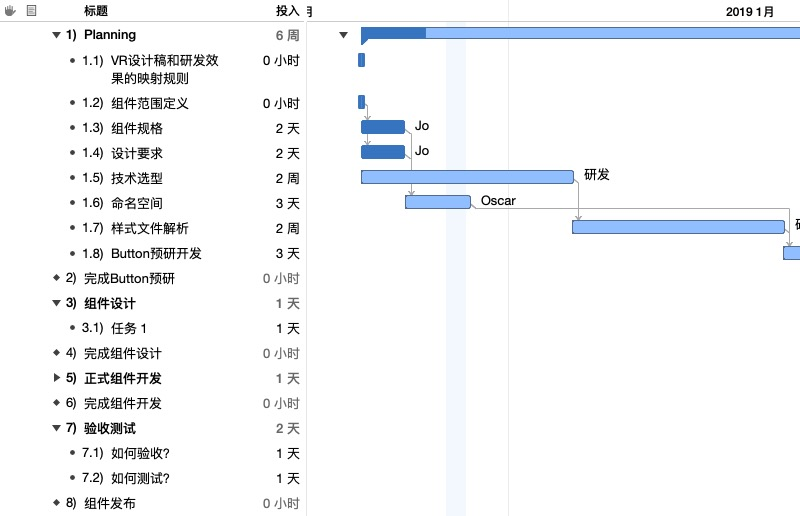
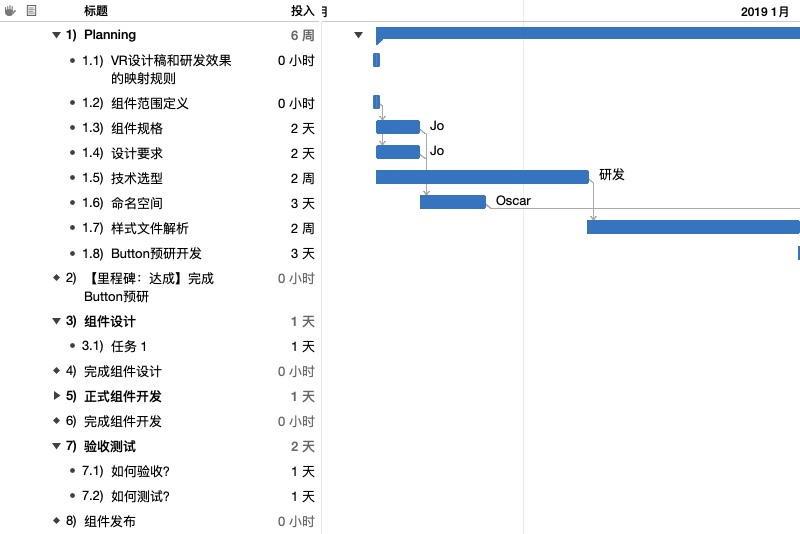
update

Changed region(s): [[0.0, 0.0, 1.0, 0.9922], [0.4375, 0.186, 1.0, 0.5271], [0.3125, 0.155, 0.4062, 0.9922]]

diff --git a/PUIFramework/task.html b/PUIFramework/task.html
@@ -67,7 +67,7 @@
 <td>2018/12/21 上午8:00</td>
 <td>2019/1/22 下午5:00</td>
 <td>4 周 3 天</td>
-<td>13%</td>
+<td>100%</td>
 <td></td>
 <td class="total"></td>
 <td></td>
@@ -152,7 +152,7 @@
 <td>2018/12/21 上午8:00</td>
 <td>2019/1/3 下午5:00</td>
 <td>2 周</td>
-<td>0%</td>
+<td>100%</td>
 <td></td>
 <td class="total"></td>
 <td>研发</td>
@@ -169,7 +169,7 @@
 <td>2018/12/25 上午9:00</td>
 <td>2018/12/28 上午9:00</td>
 <td>3 天</td>
-<td>0%</td>
+<td>100%</td>
 <td>1.3, 1.4</td>
 <td class="total"></td>
 <td>Oscar</td>
@@ -186,7 +186,7 @@
 <td>2019/1/4 上午8:00</td>
 <td>2019/1/17 下午5:00</td>
 <td>2 周</td>
-<td>0%</td>
+<td>100%</td>
 <td>1.5, 1.6</td>
 <td class="total"></td>
 <td>研发</td>
@@ -203,7 +203,7 @@
 <td>2019/1/18 上午8:00</td>
 <td>2019/1/22 下午5:00</td>
 <td>3 天</td>
-<td>0%</td>
+<td>100%</td>
 <td>1.6, 1.7</td>
 <td class="total"></td>
 <td>研发</td>
@@ -216,11 +216,11 @@
             </tr>
 
             <tr class="taskTypeMilestone">
-<td style="padding-left: 18px;" class="wrap">2) 完成Button预研</td>
+<td style="padding-left: 18px;" class="wrap">2) 【里程碑：达成】完成Button预研</td>
 <td>2019/1/23 下午3:00</td>
 <td>2019/1/23 下午3:00</td>
 <td></td>
-<td>0%</td>
+<td>100%</td>
 <td>1, 1.8</td>
 <td class="total"></td>
 <td></td>
@@ -406,6 +406,6 @@
         </div><!-- end table wrap -->
 	</div>
     </div><!-- end contentwrap -->
-	 <p class="exported">输出日期 2018/12/27</p>
+	 <p class="exported">输出日期 2019/1/28</p>
 </body>
 </html>

diff --git a/PUIFramework/resource.html b/PUIFramework/resource.html
@@ -158,7 +158,7 @@
 <td>2018/12/21 上午8:00</td>
 <td>2019/1/22 下午5:00</td>
 <td></td>
-<td>0%</td>
+<td>100%</td>
 <td></td>
             </tr>
 
@@ -167,7 +167,7 @@
 <td>2018/12/21 上午8:00</td>
 <td>2019/1/3 下午5:00</td>
 <td>2 周</td>
-<td>0%</td>
+<td>100%</td>
 <td></td>
             </tr>
 
@@ -176,7 +176,7 @@
 <td>2019/1/4 上午8:00</td>
 <td>2019/1/17 下午5:00</td>
 <td>2 周</td>
-<td>0%</td>
+<td>100%</td>
 <td></td>
             </tr>
 
@@ -185,7 +185,7 @@
 <td>2019/1/18 上午8:00</td>
 <td>2019/1/22 下午5:00</td>
 <td>3 天</td>
-<td>0%</td>
+<td>100%</td>
 <td></td>
             </tr>
  
@@ -203,7 +203,7 @@
 <td>2018/12/25 上午9:00</td>
 <td>2018/12/28 上午9:00</td>
 <td>3 天</td>
-<td>0%</td>
+<td>100%</td>
 <td></td>
             </tr>
 
@@ -212,7 +212,7 @@
 <td>2018/12/25 上午9:00</td>
 <td>2018/12/28 上午9:00</td>
 <td>3 天</td>
-<td>0%</td>
+<td>100%</td>
 <td></td>
             </tr>
  
@@ -257,6 +257,6 @@
         </div>
     </div><!-- end contentwrap -->
 
-<p class="exported">输出日期 2018/12/27</p>
+<p class="exported">输出日期 2019/1/28</p>
 </body>
 </html>

diff --git a/PUIFramework/index.html b/PUIFramework/index.html
@@ -32,8 +32,8 @@
 			<p class="number"><span class="data-missing">无</span></p>
 		</div>
 		<div id="completed" class="box">
-			<h2><span class="number">12%</span>已完成</h2>
-			<div id="bar"><div id="fill" style="width:12%;"></div></div>
+			<h2><span class="number">88%</span>已完成</h2>
+			<div id="bar"><div id="fill" style="width:88%;"></div></div>
 			<p><span class="label">开始：</span>2018/12/21 上午8:00</p>
 			<p><span class="label">结束日期：</span>2019/2/6 上午11:00</p>
 			<p><span class="label">差异：</span><span class="data-missing">无</span></p>
@@ -141,7 +141,7 @@
 <td>2018/12/21 上午8:00</td>
 <td>2019/1/22 下午5:00</td>
 <td></td>
-<td>0%</td>
+<td>100%</td>
 <td></td>
             </tr>
 
@@ -159,7 +159,7 @@
 <td>2018/12/25 上午9:00</td>
 <td>2018/12/28 上午9:00</td>
 <td>3 天</td>
-<td>0%</td>
+<td>100%</td>
 <td></td>
             </tr>
 
@@ -247,6 +247,6 @@
        
             </div><!-- end content-->
 	</div><!-- end contentwrap -->
-	 <p class="exported">输出日期 2018/12/27</p>
+	 <p class="exported">输出日期 2019/1/28</p>
 
 </body>	

diff --git a/PUIFramework/gantt.html b/PUIFramework/gantt.html
@@ -30,13 +30,13 @@
 	<h1>PUI组件开发项目：甘特图</h1>
 		<div class="tablewrap"><table border="0" cellspacing="0" cellpadding="0">
 <tr>
-	<td><img src="include/gantt0,0.jpg?nocacheTag=598808700" border=0/></td>
-	<td><img src="include/gantt1,0.jpg?nocacheTag=1764818339" border=0/></td>
+	<td><img src="include/gantt0,0.jpg?nocacheTag=-466130421" border=0/></td>
+	<td><img src="include/gantt1,0.jpg?nocacheTag=-1970545392" border=0/></td>
 </tr>
 </table>
 </div>
 		</div>
 	</div><!-- end contentwrap -->
-	 <p class="exported">输出日期 2018/12/27</p>
+	 <p class="exported">输出日期 2019/1/28</p>
 
 </body>	

diff --git a/PUIFramework/timeline.html b/PUIFramework/timeline.html
@@ -33,10 +33,18 @@
 	<td><img src="include/timeline0,0.jpg" border=0/></td>
 	<td><img src="include/timeline1,0.jpg" border=0/></td>
 <br clear=all />
+<tr>
+	<td><img src="include/timeline0,1.jpg" border=0/></td>
+	<td><img src="include/timeline1,1.jpg" border=0/></td>
+<br clear=all />
+<tr>
+	<td><img src="include/timeline0,2.jpg" border=0/></td>
+	<td><img src="include/timeline1,2.jpg" border=0/></td>
+<br clear=all />
 </table>
 </div>
 		</div>
 	</div><!-- end contentwrap -->
-	 <p class="exported">输出日期 2018/12/27</p>
+	 <p class="exported">输出日期 2019/1/28</p>
 
 </body>	

diff --git a/PUIFramework/eva.html b/PUIFramework/eva.html
@@ -217,7 +217,7 @@
 	</tr>
 		
 	<tr>
-		<td style="padding-left: 18px;" class="wrap">2) 完成Button预研</td>
+		<td style="padding-left: 18px;" class="wrap">2) 【里程碑：达成】完成Button预研</td>
 		<td></td>
 		<td></td>
 		<td></td>
@@ -407,6 +407,6 @@
         </div><!-- end table wrap -->
 	</div>
     </div><!-- end contentwrap -->
-	 <p class="exported">输出日期 2018/12/27</p>
+	 <p class="exported">输出日期 2019/1/28</p>
 </body>
 </html>

diff --git a/PUIFramework/montecarlo.html b/PUIFramework/montecarlo.html
@@ -33,7 +33,7 @@
 	       
 	          <table class="basic monte" id="resource-report">
             <tr class="montetitle">
-<th>完成Button预研</th>
+<th>【里程碑：达成】完成Button预研</th>
 <th>最佳案例</th>
 <th>最差案例</th>
 <th>预计</th>
@@ -167,6 +167,6 @@
 
 			</div>
 	</div><!-- end contentwrap -->
-	 <p class="exported">输出日期 2018/12/27</p>
+	 <p class="exported">输出日期 2019/1/28</p>
 
 </body>	
